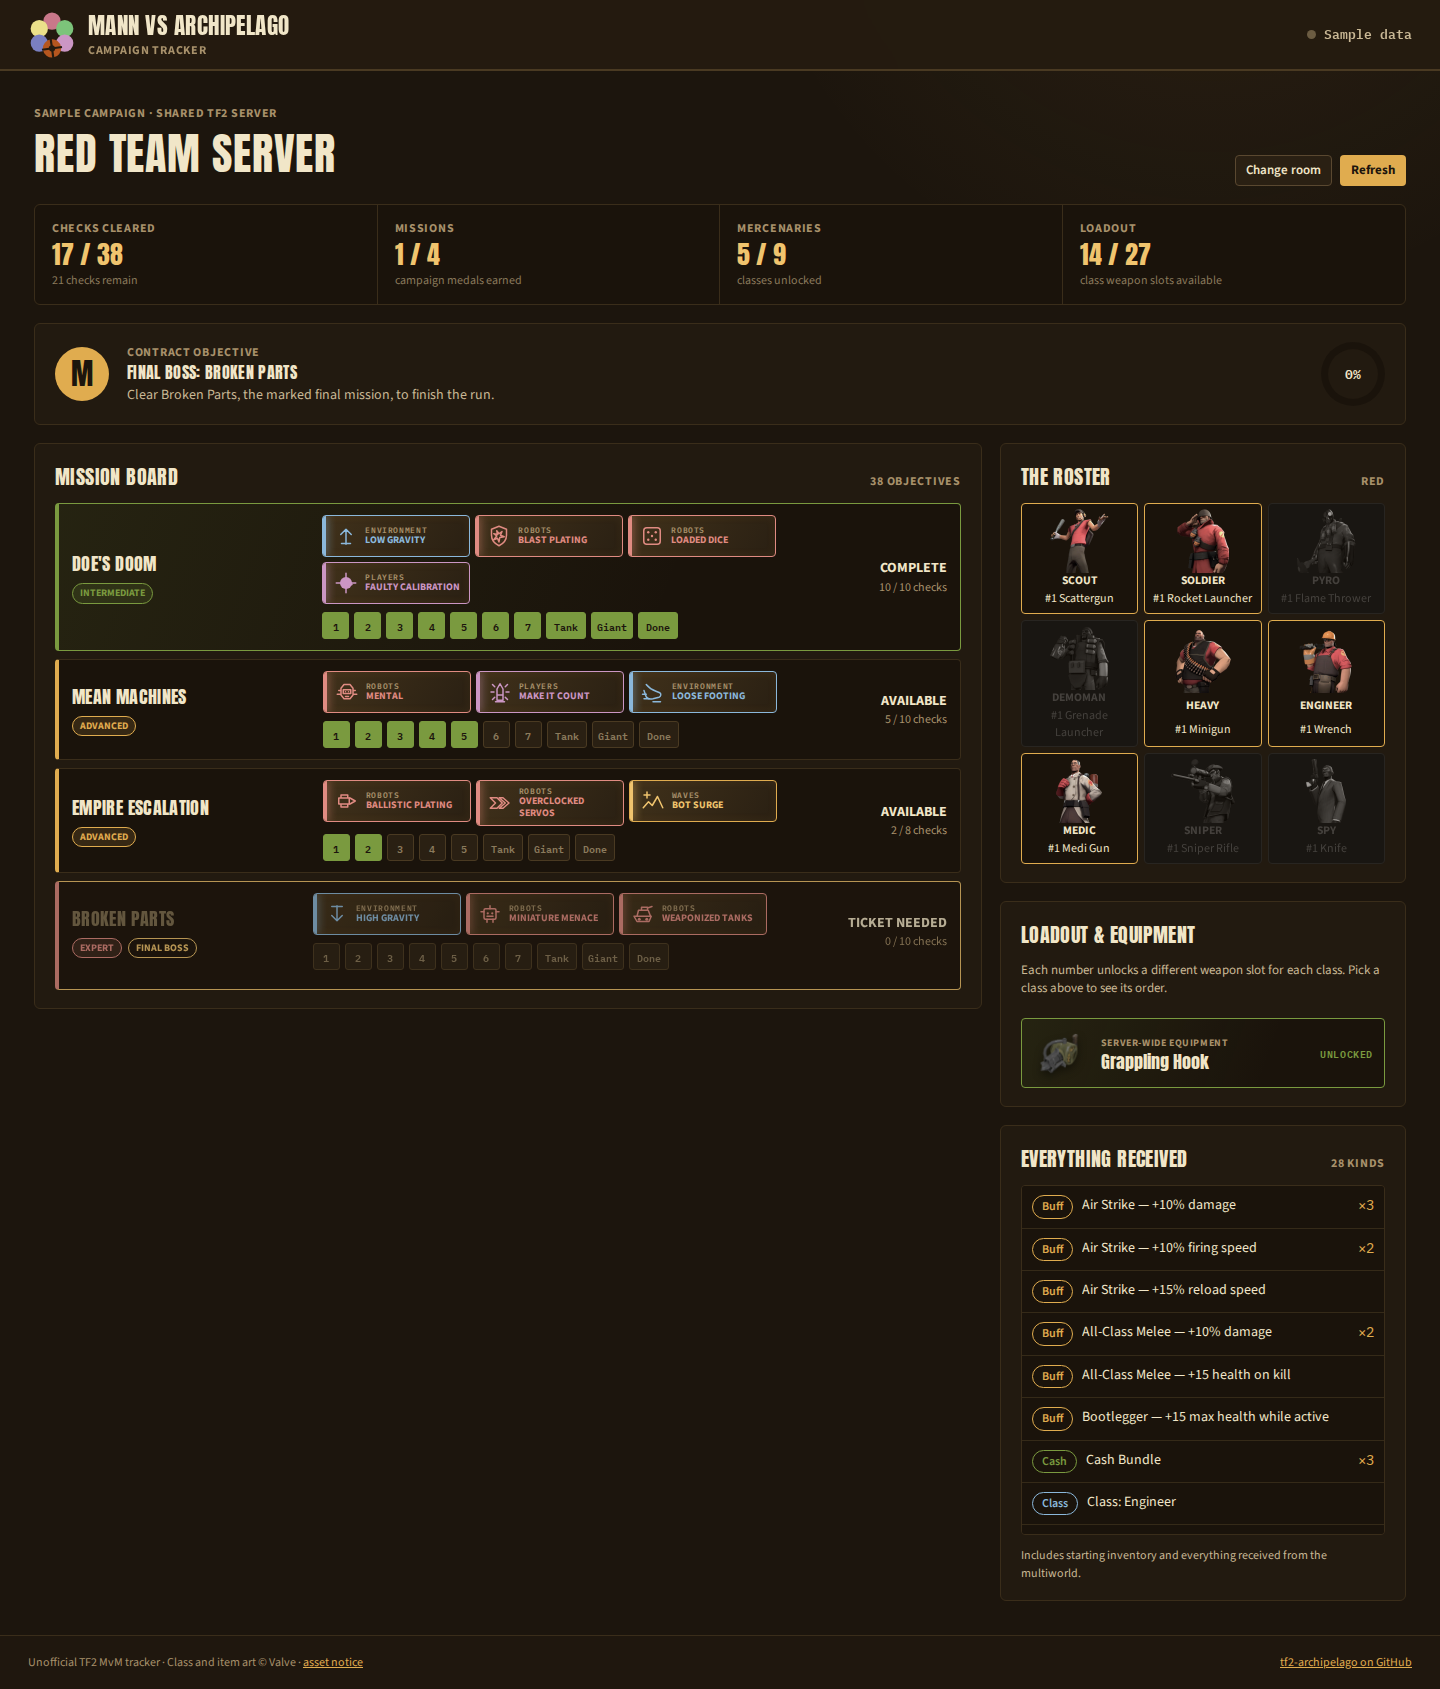
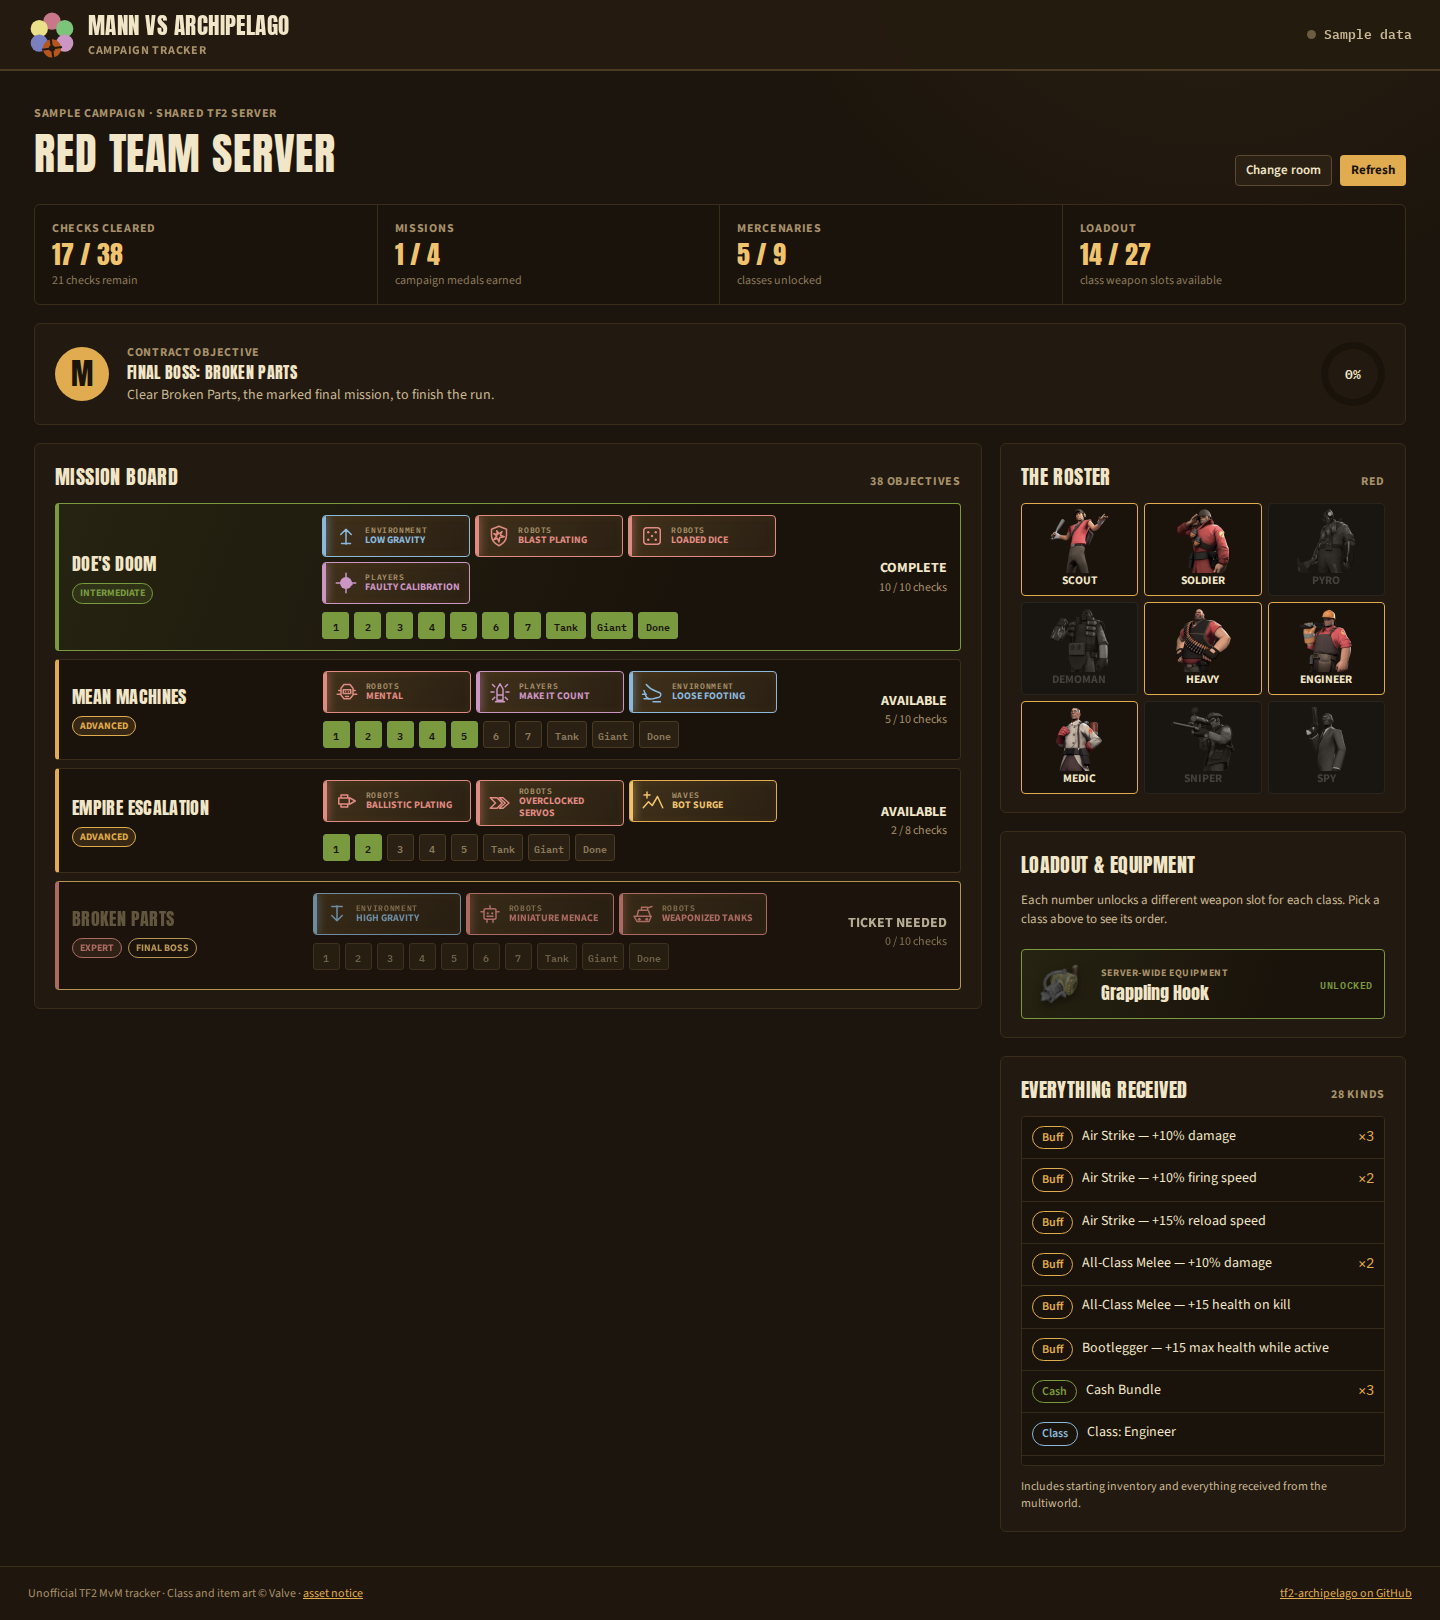
Keep roster cards compact and show loadouts on click

diff --git a/launcher/web/src/tracker/tracker.html b/launcher/web/src/tracker/tracker.html
@@ -213,11 +213,7 @@
                     classView.name +
                     ', ' +
                     (classView.unlocked ? 'unlocked' : 'locked') +
-                    '; slot 1 ' +
-                    classView.slots[0]?.name +
-                    ' (' +
-                    firstWeapon[classView.name] +
-                    '); inspect upgrades'
+                    '; inspect loadout and upgrades'
                   "
                   (click)="openBuffs(classView)"
                 >
@@ -228,7 +224,6 @@
                     loading="lazy"
                   />
                   <small>{{ classView.name }}</small>
-                  <span class="class-first-slot">#1 {{ firstWeapon[classView.name] }}</span>
                 </button>
               }
             </div>

diff --git a/launcher/web/src/tracker/tracker.spec.ts b/launcher/web/src/tracker/tracker.spec.ts
@@ -195,8 +195,8 @@ describe('tracker screen', () => {
     expect(element.querySelectorAll('app-panel').length).toBeGreaterThan(3);
     expect(element.textContent).toContain('RED Team Server');
     expect(element.textContent).toContain('Grappling Hook');
-    expect(element.textContent).toContain('#1 Medi Gun');
-    expect(element.textContent).toContain('#1 Knife');
+    expect(element.querySelector('.class-grid')?.textContent).toContain('Spy');
+    expect(element.querySelector('.class-grid')?.textContent).not.toMatch(/Medi Gun|Knife/);
     expect(element.textContent).toContain('All-Class Melee');
     expect(element.textContent).toContain('Low Gravity');
     expect(element.textContent).toContain('Blast Plating');

diff --git a/launcher/web/src/tracker/styles.scss b/launcher/web/src/tracker/styles.scss
@@ -529,7 +529,7 @@ main {
 
 .class-card {
   display: grid;
-  min-height: 106px;
+  min-height: 88px;
   padding: 5px;
   place-items: center;
   color: var(--text-disabled);
@@ -560,11 +560,6 @@ main {
 .class-card small {
   font-weight: 700;
   text-transform: uppercase;
-}
-
-.class-first-slot {
-  font-size: var(--text-xs);
-  text-align: center;
 }
 
 .slot-explanation {
